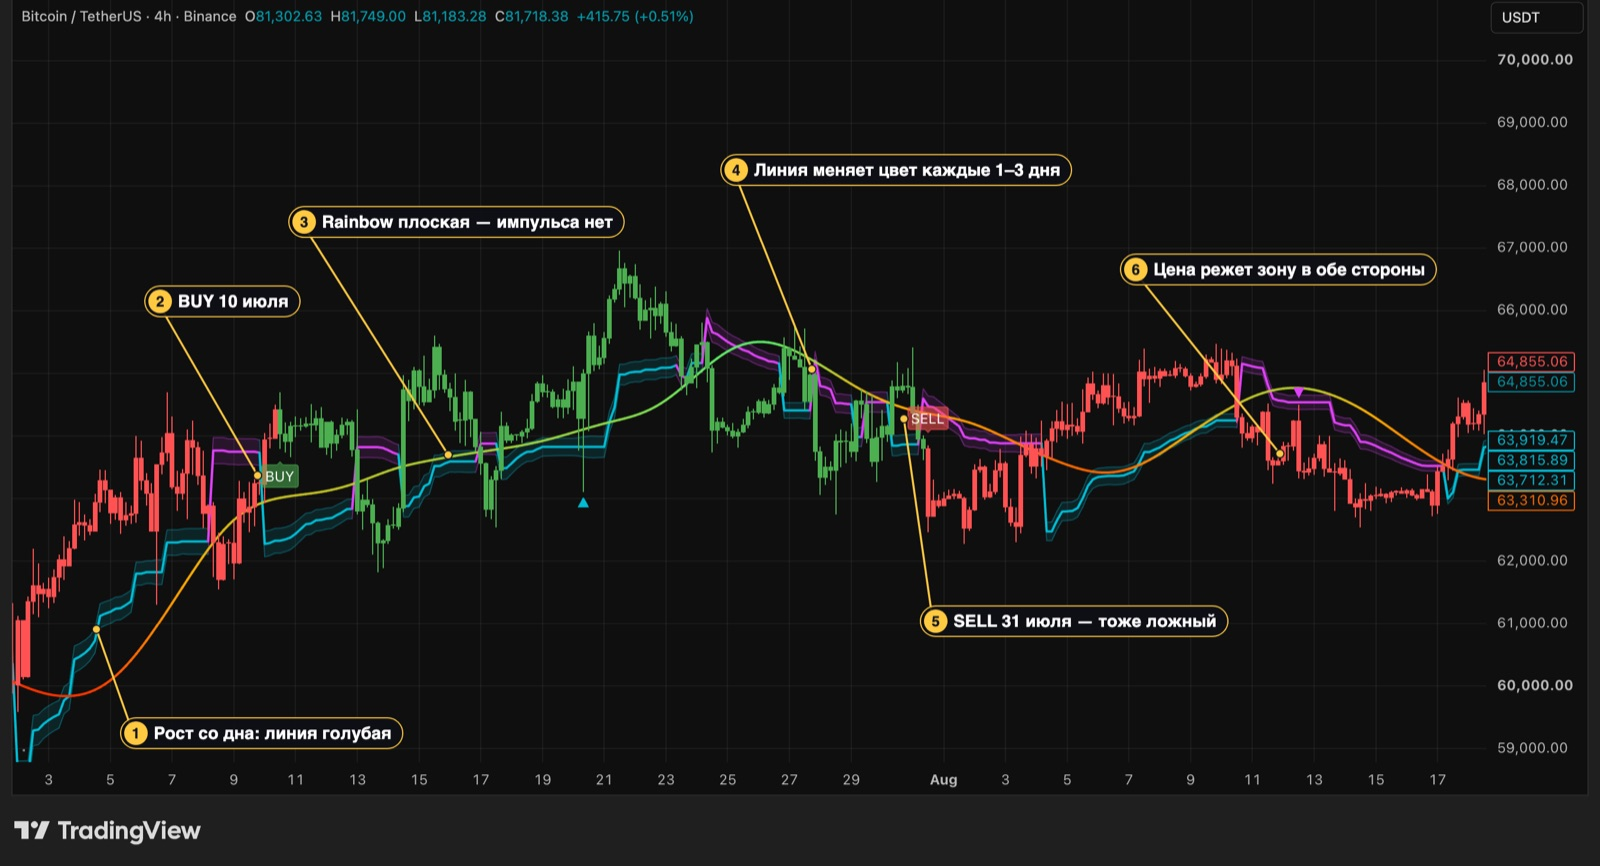
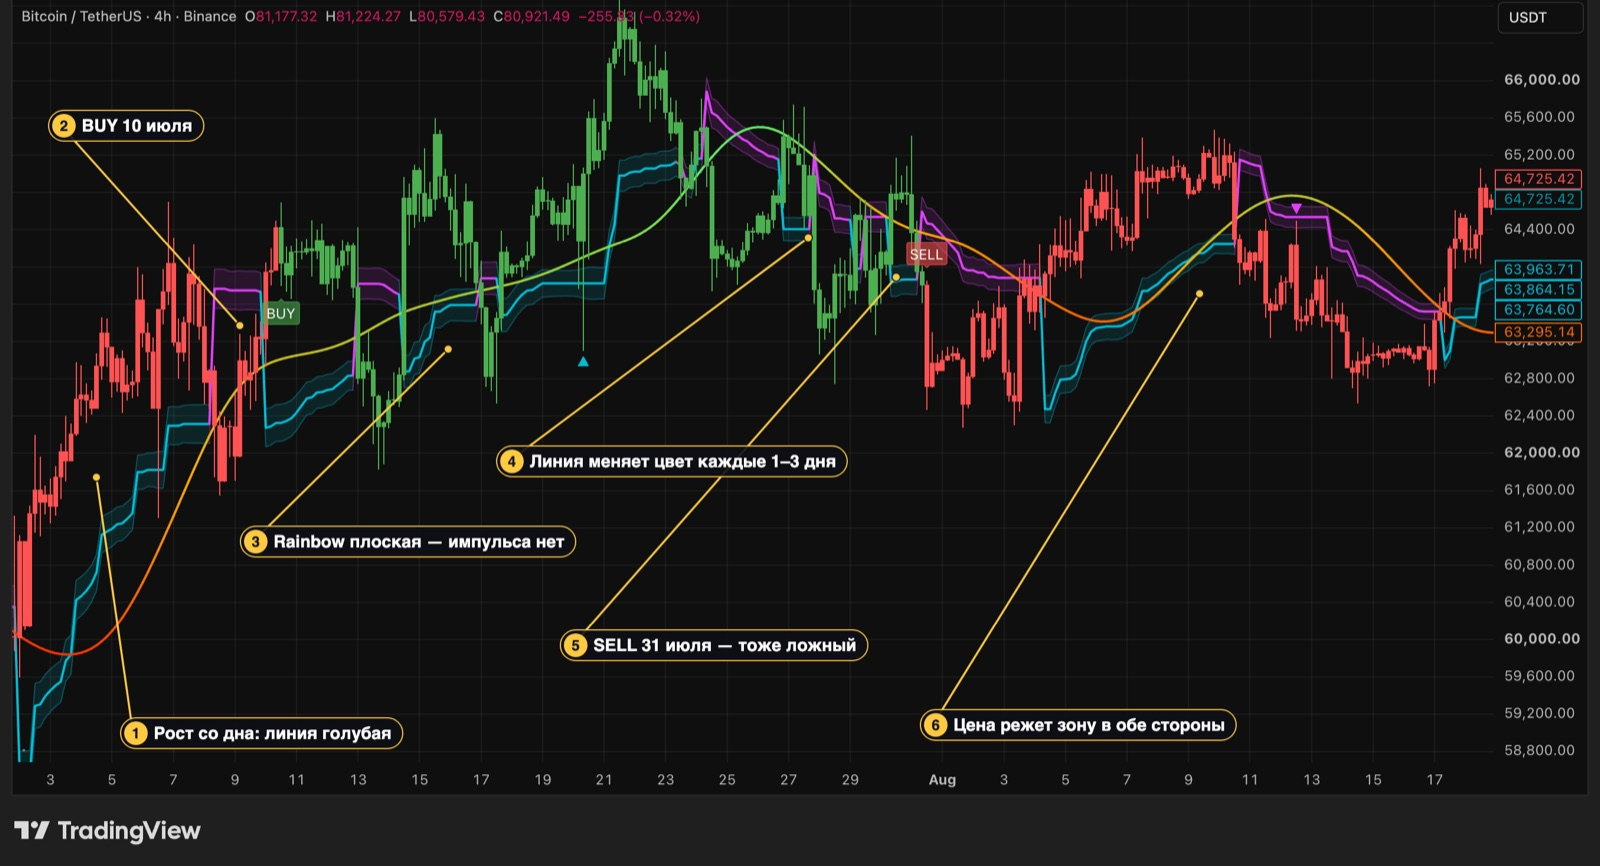
Разворот линии Chandelier: закрытие за обеими линиями вместо пересечения
Разворот засчитывался только при пересечении одной линии (close[1] по другую
сторону). После резкого импульса 22-свечной диапазон бывает шире 6 ATR, линии
меняются местами, и новая линия оказывалась «за» ценой — состояние застревало
на десятки свечей. На 1h 19–23 августа линия была фиолетовой, но стояла под
ценой весь рост с 68 до 77 тысяч.

Теперь разворот вверх — закрытие выше обеих линий прошлой свечи, вниз — ниже
обеих. Линия, оказавшаяся не на своей стороне цены, рисуется серой: это честная
неопределённость, пока диапазон шире 6 ATR.

Доля таких свечей на BTC (4h / 1h / 30m / 15m / 5m):
  было  6.2 / 5.4 / 5.6 / 7.0 / 10.5%, макс. эпизод 42–81 свеча
  стало 2.2 / 2.1 / 2.0 / 2.5 /  4.0%, макс. эпизод 22 свечи
Разворотов при этом не прибавилось (45–55 на 1000 баров против 47–59).

Бэктест BTC+ETH+SOL, сетка 54 конфигурации на каждом ТФ:
  4h  PF 1.261 -> 1.239, просадка −13.9R -> −17.0R, по сетке медиана +0.003
  1h  PF 0.923 -> 0.938, лучше в 44/54;  30m 0.839 -> 0.867, лучше в 48/54
  15m PF 0.646 -> 0.665, лучше в 45/54;  5m  0.412 -> 0.436, лучше в 51/54
Небольшой откат на 4h ожидаем: фильтр v3.2 подбирался там со старой логикой.
Рассмотренные альтернативы (everget-приоритет лонга, разворот по уровню без
проверки стороны) дали больше пилы или хуже результат.

Версии: v3.3 / Strategy 1.3 / v2.2, все три компилируются в TradingView.
Тесты: регрессия на импульсе с проливом (падает на старой логике), проверка
[…]

diff --git a/tests/test_backtest.py b/tests/test_backtest.py
@@ -62,6 +62,43 @@ def run_long(bars, **kw):
     return bt.run(D, **params)
 
 
+def klines_from_closes(closes):
+    """Часовые свечи: open = прошлый close, тени по 0.5 от тела."""
+    out, prev = [], closes[0]
+    for i, c in enumerate(closes):
+        o = prev
+        out.append(kline(i * 3_600_000, o, max(o, c) + 0.5, min(o, c) - 0.5, c,
+                         close_time=i * 3_600_000 + 3_599_999))
+        prev = c
+    return out
+
+
+FLAT = [100 + (0.3 if i % 2 else -0.3) for i in range(60)]   # флэт, ATR ~1
+
+
+class TestChandelierFlip(unittest.TestCase):
+    """Разворот линии: закрытие выше обеих линий прошлой свечи (вниз — ниже обеих)."""
+
+    def test_dip_after_vertical_impulse_does_not_stick_in_short(self):
+        # После импульса 100 -> 130 22-свечной диапазон шире 6 ATR: линия лонга
+        # (максимум - 3 ATR) выше линии шорта (минимум + 3 ATR). Пролив до 121 пробивает
+        # линию лонга, но остаётся над линией шорта. Раньше состояние переключалось в шорт
+        # с линией ~108 ПОД ценой и застревало так, пока цена росла до 137.
+        closes = FLAT + [104, 112, 122, 130, 121, 123, 125, 127, 129, 131, 133, 135, 137]
+        D = bt.prepare(klines_from_closes(closes))
+        dip = len(FLAT) + 4
+        self.assertTrue(all(d == 1 for d in D["csDir"][dip:]),
+                        "пролив внутри диапазона не должен переворачивать тренд в шорт")
+        self.assertTrue(all(D["pc"][i] < D["c"][i] for i in range(dip + 1, D["n"])),
+                        "в продолжении роста линия лонга должна стоять под ценой")
+
+    def test_clear_downtrend_still_flips_to_short(self):
+        closes = FLAT + [100 - 1.5 * k for k in range(1, 21)]
+        D = bt.prepare(klines_from_closes(closes))
+        self.assertEqual(D["csDir"][-1], -1)
+        self.assertGreater(D["pc"][-1], D["c"][-1], "линия шорта должна быть над ценой")
+
+
 class TestAdxParity(unittest.TestCase):
     """Находка №3: ta.rising сравнивает с максимумом, а не требует монотонности."""
 
@@ -264,6 +301,17 @@ class TestPineFilterParity(unittest.TestCase):
         self.assertRegex(src, r"retestShortRaw\s*=.*signalLine > macdLine.*diSpreadOK")
         self.assertRegex(src, r"reentryLongRaw\s*=.*diSpreadOK")
         self.assertRegex(src, r"reentryShortRaw\s*=.*diSpreadOK")
+
+    def test_all_scripts_flip_on_both_lines_and_grey_out_off_side_line(self):
+        for name in ("MoneyForesight_v3.pine", "MoneyForesight_strategy.pine",
+                     "MoneyForesight_v2.pine"):
+            src = self._source(name)
+            with self.subTest(script=name):
+                self.assertIn("longswitch  = close >= shortvs[1] and close > longvs[1]", src)
+                self.assertIn("shortswitch = close <= longvs[1] and close < shortvs[1]", src)
+                self.assertNotIn("close[1] < shortvs[1]", src, "разворот не должен требовать пересечения")
+                self.assertIn("csOnSide = csDir > 0 ? close >= pc : close <= pc", src)
+                self.assertIn("not csOnSide ? color.gray", src)
 
 
 class TestDrawdown(unittest.TestCase):

diff --git a/backtest.py b/backtest.py
@@ -251,8 +251,10 @@ def prepare(kl):
         longvs[i]  = ls if pL is None else (ls if c[i] < pL else max(ls, pL))
         d = csDir[i - 1] if i else 0
         if i and shortvs[i - 1] is not None and longvs[i - 1] is not None:
-            longswitch  = c[i] >= shortvs[i - 1] and c[i - 1] < shortvs[i - 1]
-            shortswitch = c[i] <= longvs[i - 1] and c[i - 1] > longvs[i - 1]
+            # разворот вверх — закрытие выше обеих линий прошлой свечи, вниз — ниже обеих
+            # (без требования пересечения — иначе после импульса состояние застревало)
+            longswitch  = c[i] >= shortvs[i - 1] and c[i] > longvs[i - 1]
+            shortswitch = c[i] <= longvs[i - 1] and c[i] < shortvs[i - 1]
             if d >= 0 and shortswitch: d = -1
             elif d <= 0 and longswitch: d = 1
         csDir[i] = d

diff --git a/README.md b/README.md
@@ -36,8 +36,8 @@
 
 | Файл | Что это |
 |---|---|
-| [`MoneyForesight_v3.pine`](MoneyForesight_v3.pine) | **Основной индикатор, v3.2.** Сигналы, зона-магнит, виртуальные сделки, S/R, статистика, алерты |
-| [`MoneyForesight_strategy.pine`](MoneyForesight_strategy.pine) | **Стратегия 1.2** для «Тестера стратегий»: та же логика входов и выходов, но с реальным учётом комиссии, проскальзывания и размера позиции |
+| [`MoneyForesight_v3.pine`](MoneyForesight_v3.pine) | **Основной индикатор, v3.3.** Сигналы, зона-магнит, виртуальные сделки, S/R, статистика, алерты |
+| [`MoneyForesight_strategy.pine`](MoneyForesight_strategy.pine) | **Стратегия 1.3** для «Тестера стратегий»: та же логика входов и выходов, но с реальным учётом комиссии, проскальзывания и размера позиции |
 | [`backtest.py`](backtest.py) | Бэктест той же логики на Python по данным Binance: сетка параметров по 5 таймфреймам |
 | [`tests/`](tests) | Юнит-тесты бэктестера и проверка, что фильтры Pine и Python совпадают |
 | [`MoneyForesight_diamonds.md`](MoneyForesight_diamonds.md) | Реестр лучших конфигураций по монетам |
@@ -73,7 +73,7 @@
 | Элемент | Что означает |
 |---|---|
 | Rainbow MA: плавная линия от красного через оранжевый до ярко-зелёного | Сила и направление импульса. Ярко-зелёная — сильный рост, оранжевая и плоская — флэт, ярко-красная — сильное падение |
-| Линия Chandelier: голубая / фиолетовая | Бычье / медвежье направление тренда |
+| Линия Chandelier: голубая / фиолетовая / серая | Бычье / медвежье направление тренда. Серая — неопределённость после резкого хода: линия оказалась не на своей стороне цены |
 | Полупрозрачная полоса вокруг линии | Зона-магнит: линия ± `Zone Width` × ATR |
 | Метки **BUY / SELL** | Разворот сигнала. Яркие — сорт **A** (риск до стопа ≤ 2 ATR), мелкие бледные — сорт **B** (далёкий стоп) |
 | Треугольники | **Ретест**: откат в зону в живом тренде с закрытием обратно за зоной |
@@ -229,7 +229,7 @@ Chandelier два бара подряд в одном направлении. Ц
 В индикаторе есть готовые условия: `LONG`, `SHORT`, `RETEST LONG`, `RETEST SHORT`,
 `RE-ENTRY LONG`, `RE-ENTRY SHORT`, `TP HIT`, `SL HIT`, `Resistance Broken`, `Support Broken`.
 
-Как создать: **Alert** на верхней панели → в поле **Condition** выберите `MoneyForesight v3.2`
+Как создать: **Alert** на верхней панели → в поле **Condition** выберите `MoneyForesight v3.3`
 и нужное условие → частота **Once Per Bar Close**.
 
 Держите `Signals on Bar Close Only` включённым: иначе алерт может сработать внутри бара на
@@ -286,12 +286,13 @@ python3 -m unittest discover -s tests
 ## Результаты и их ограничения
 
 BTCUSDT + ETHUSDT + SOLUSDT, 4h, 8 февраля 2023 — 8 сентября 2026. ADX 20, TP 2R, стоп Zone 0.25,
-флип-выход включён. Как изменил результат фильтр продолжений v3.2:
+флип-выход включён:
 
 | | Win rate | Сделок | Profit factor | Net | Просадка (MtM, худший инструмент) |
 |---|---|---|---|---|---|
 | v3.1 | 35.5% | 589 | 1.045 | +15.0R | −27.3R |
-| **v3.2** | **37.7%** | **414** | **1.261** | **+55.6R** | **−13.9R** |
+| v3.2 — фильтр продолжений | 37.7% | 414 | 1.261 | +55.6R | −13.9R |
+| **v3.3 — исправлен разворот линии** | **37.4%** | **425** | **1.239** | **+53.3R** | **−17.0R** |
 
 Что важно знать:
 
@@ -302,10 +303,22 @@ BTCUSDT + ETHUSDT + SOLUSDT, 4h, 8 февраля 2023 — 8 сентября 20
   Комиссия и шум съедают преимущество.
 - В первой половине периода просадка на 4h не уменьшилась. Почти весь выигрыш пришёлся на вторую
   половину.
+- **Исправление разворота в v3.3 — это исправление отображения, а не оптимизация.** На 4h итог
+  чуть хуже (PF 1.261 → 1.239, просадка −13.9R → −17.0R), на сетке из 54 конфигураций 4h —
+  без изменений (медиана ΔPF +0.003). На 1h, 30m, 15m и 5m PF вырос в 45–51 конфигурации из 54.
+  Фильтр v3.2 подбирался на 4h со старой логикой линии, поэтому небольшой откат на 4h ожидаем.
 - Цифры в [`MoneyForesight_diamonds.md`](MoneyForesight_diamonds.md) посчитаны **до** фильтра v3.2,
   по логике v3.1.
 
 ## Версии
+
+**v3.3 / Strategy 1.3 / v2.2** (сентябрь 2026) — исправлен разворот линии Chandelier:
+
+- разворот вверх — закрытие выше обеих линий прошлой свечи, вниз — ниже обеих. Раньше хватало
+  пересечения одной линии, и после резкого импульса линия застревала «за» ценой на десятки свечей
+  (на BTC — 5–11% истории в зависимости от таймфрейма, теперь около 2%);
+- линия, оказавшаяся не на своей стороне цены, рисуется серой: это неопределённость после
+  резкого хода, пока 22-свечной диапазон шире 6 ATR.
 
 **v3.2 / Strategy 1.2** (сентябрь 2026) — фильтр качества продолжений:
 
